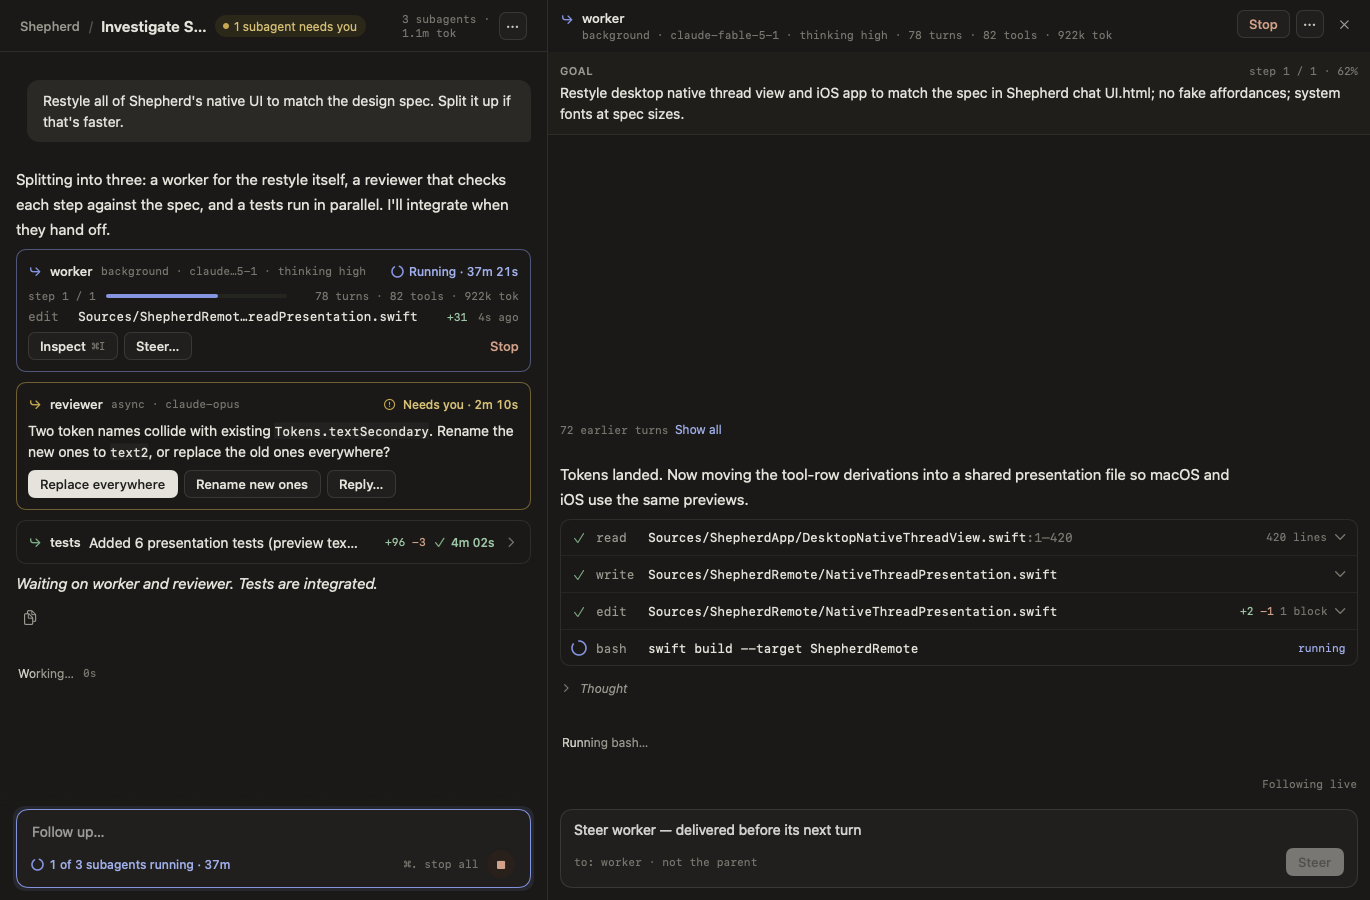
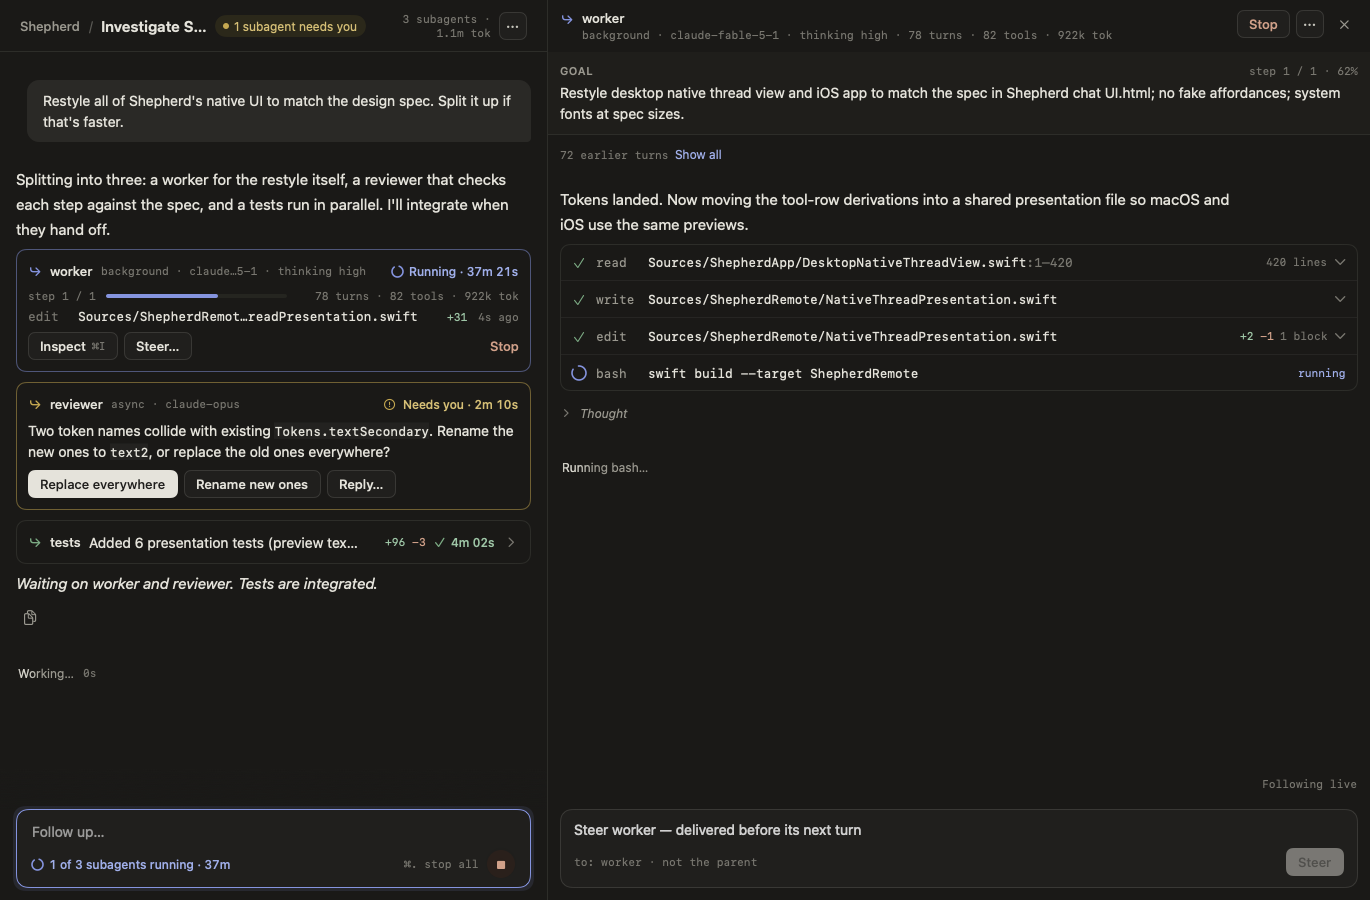
feat: native subagents on by default; inspector opens at the top of a short transcript
Also keeps the header rollup on one line when the header is wide and
wraps it within a fixed width when the inspector narrows it.

diff --git a/Sources/ShepherdApp/AppSettings.swift b/Sources/ShepherdApp/AppSettings.swift
@@ -274,7 +274,7 @@ final class AppSettings: ObservableObject {
         piPanesExtension = store.object(forKey: Key.piPanesExtension) as? Bool ?? true
         piReviewExtension = store.object(forKey: Key.piReviewExtension) as? Bool ?? true
         piSubagentsExtension = store.object(forKey: Key.piSubagentsExtension) as? Bool ?? true
-        piNativeSubagents = store.object(forKey: Key.piNativeSubagents) as? Bool ?? false
+        piNativeSubagents = store.object(forKey: Key.piNativeSubagents) as? Bool ?? true
         childConcurrency = min(16, max(1, store.object(forKey: Key.childConcurrency) as? Int ?? 4))
         childModel = store.string(forKey: Key.childModel) ?? ""
         let childReasoning = store.string(forKey: Key.childThinking) ?? ""
@@ -363,7 +363,7 @@ final class AppSettings: ObservableObject {
         piPanesExtension = true
         piReviewExtension = true
         piSubagentsExtension = true
-        piNativeSubagents = false
+        piNativeSubagents = true
         childConcurrency = 4
         childModel = ""
         childThinking = ""

diff --git a/Sources/ShepherdApp/DesktopNativeThreadView.swift b/Sources/ShepherdApp/DesktopNativeThreadView.swift
@@ -612,8 +612,11 @@ struct NativeThreadHeader: View {
             // "3 subagents · 1.6m tok": stays even when the inspector narrows the header (board),
             // wrapping to two lines like the board rather than yielding.
             if let rollup = nativeSubagentRollup(store.subagents) {
-                Text(wide ? rollup : rollup.replacingOccurrences(of: " · ", with: " ·\n"))
-                    .font(NativeFonts.micro).foregroundStyle(NativeTokens.textMuted).fixedSize().lineLimit(2)
+                Text(rollup)
+                    .font(NativeFonts.micro).foregroundStyle(NativeTokens.textMuted)
+                    .lineLimit(wide ? 1 : 2).fixedSize(horizontal: wide, vertical: true)
+                    .frame(maxWidth: wide ? nil : 96, alignment: .trailing)
+                    .multilineTextAlignment(.trailing)
                     .accessibilityLabel(rollup)
             }
             // Context size comes from pi's session stats (RPC agents only); the terminal bridge has none.

diff --git a/Tests/ShepherdAppTests/AppSettingsTests.swift b/Tests/ShepherdAppTests/AppSettingsTests.swift
@@ -28,7 +28,7 @@ struct AppSettingsTests {
         #expect(settings.piPanesExtension)
         #expect(settings.piReviewExtension)
         #expect(settings.piSubagentsExtension)
-        #expect(!settings.piNativeSubagents)
+        #expect(settings.piNativeSubagents)
         #expect(settings.autoUpdatePi == AppSettings.Defaults.autoUpdatePi)
         #expect(settings.autoUpdateExtensions == AppSettings.Defaults.autoUpdateExtensions)
         #expect(settings.worktreeGeneratePRDescription)
@@ -142,7 +142,7 @@ struct AppSettingsTests {
         #expect(settings.piPanesExtension)
         #expect(settings.piReviewExtension)
         #expect(settings.piSubagentsExtension)
-        #expect(!settings.piNativeSubagents)
+        #expect(settings.piNativeSubagents)
         #expect(settings.autoUpdatePi == AppSettings.Defaults.autoUpdatePi)
         #expect(settings.autoUpdateExtensions == AppSettings.Defaults.autoUpdateExtensions)
         #expect(settings.worktreeGeneratePRDescription)

diff --git a/Sources/ShepherdApp/DesktopNativeInspector.swift b/Sources/ShepherdApp/DesktopNativeInspector.swift
@@ -225,7 +225,10 @@ struct NativeSubagentInspector: View {
                 .padding(.horizontal, NativeMetrics.subagentCardPadding)
                 .padding(.vertical, NativeMetrics.subagentCardPadding)
             }
-            .defaultScrollAnchor(.bottom)
+            // Content that fits sits at the top (the board shows the first rows under GOAL);
+            // a long transcript still opens at the tail and follows live from there.
+            .defaultScrollAnchor(.bottom, for: .initialOffset)
+            .defaultScrollAnchor(transcript.following ? .bottom : nil, for: .sizeChanges)
             .onChange(of: transcript.messages.count) { _, _ in
                 if transcript.following { proxy.scrollTo("inspector-bottom", anchor: .bottom) }
             }

diff --git a/docs/native-subagents.md b/docs/native-subagents.md
@@ -1,6 +1,6 @@
 # Native subagents
 
-Enable **native subagents** in Settings > Pi for newly launched agents. It is off by default and separate from **subagent display**. Existing pi-subagents tools, settings and mission records remain unchanged. Pi 0.85.1 or newer with public npm package APIs is required. No additional npm dependencies are installed.
+**Native subagents** are on by default (Settings > Pi) for newly launched agents and separate from **subagent display**; turn them off to fall back to pi-subagents. Existing pi-subagents tools, settings and mission records remain unchanged. Pi 0.85.1 or newer with public npm package APIs is required. No additional npm dependencies are installed.
 
 The parent extension owns child `pi --mode rpc` processes. Swift installs the extension modules and displays their reports. There is no daemon, scheduler, watchdog, automatic goal loop, nested delegation or automatic worktree management. No mission or workflow grants permission to commit, merge, deploy or mutate a repository.
 
